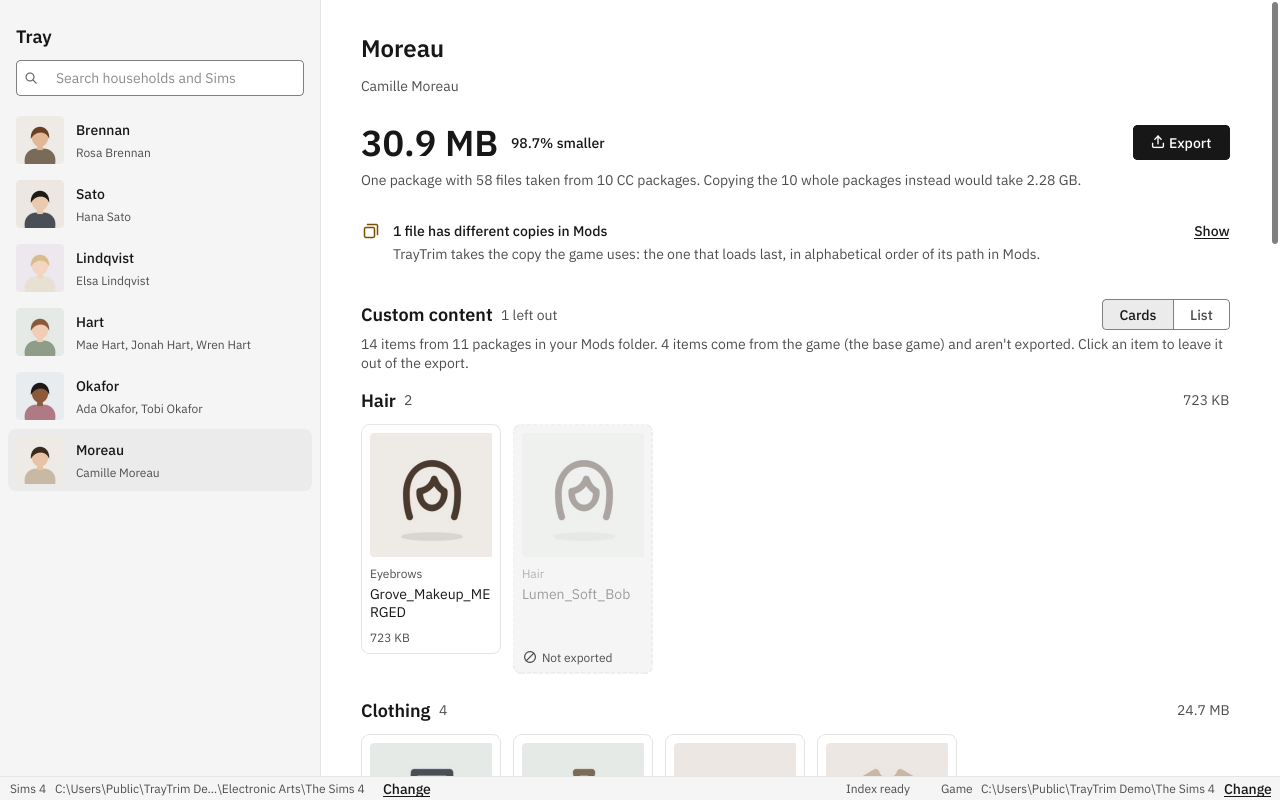
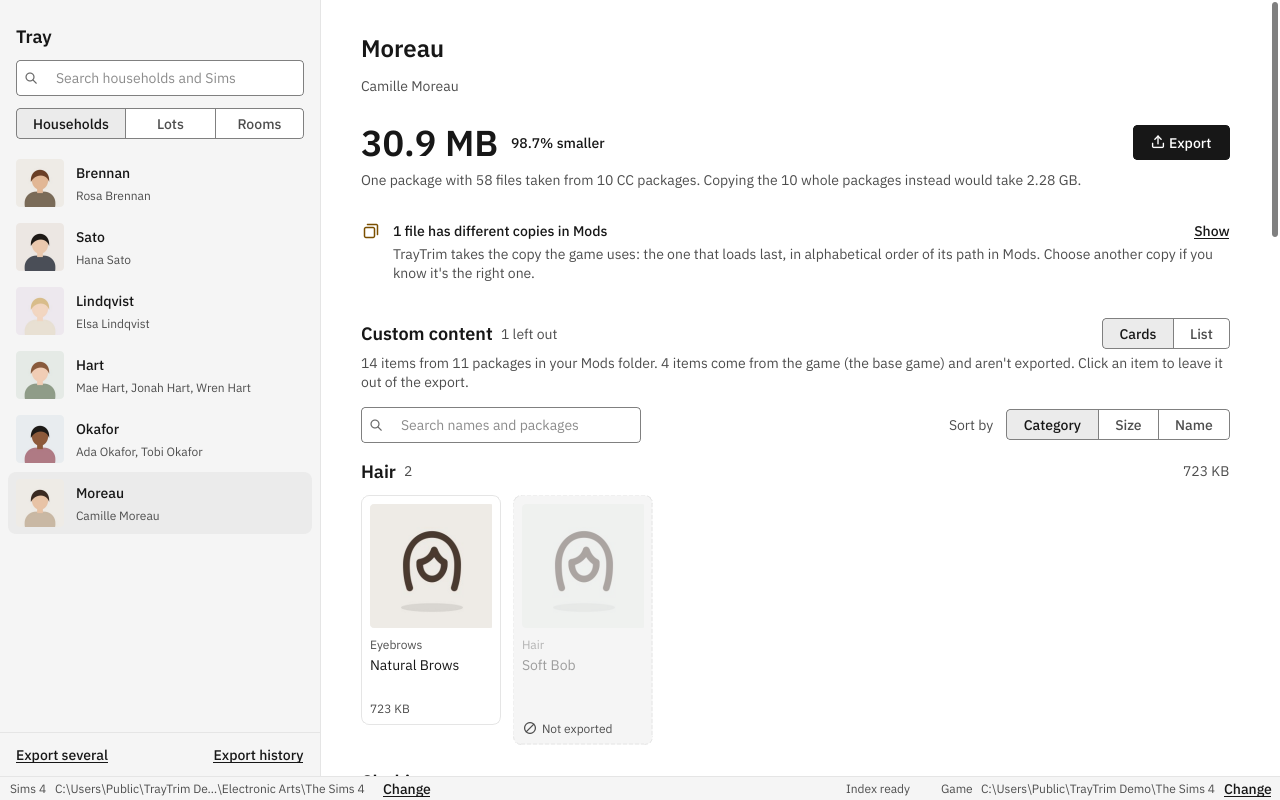
TrayTrim 0.2.0
README covers lots and rooms, CC names, search and sort, choosing
copies, joint export, history, and the macOS and Linux downloads; new
screenshots, including an invented lot.

diff --git a/README.md b/README.md
@@ -35,7 +35,10 @@ packages they live in, writes them into one package next to the tray files, and 
 - **Follows every file the CC needs**: meshes, textures in any format, thumbnails, slider shapes,
   across packages, so recolors that need a separate mesh still work.
 - **Takes the copy the game uses** when the same file is in your Mods more than once with
-  different content, and tells you which one and why.
+  different content, tells you which one and why, and lets you pick another.
+- **Shows what everything is**: CC by its own name ("Driftwood Rattan Chair", "Soft Bob"), with
+  its thumbnail, searchable and sortable by category, size or name. Lots, rooms and households
+  show their own tray picture.
 - **Lets you leave things out** with a click, and export only some Sims of a household. The size
   updates as you go.
 - **Never copies game content.** Items from the base game and packs stay out; the report lists the
@@ -46,8 +49,9 @@ packages they live in, writes them into one package next to the tray files, and 
   replacements, are listed in the export's README.
 - **Prepares an in-game test**: a folder with only the export and steps to try it in your game
   with nothing else installed, then put your Mods back.
-- **Exports several at once**, one verified zip each, and keeps a history of your exports. Any
-  earlier zip can be checked again later, without the Mods folder it came from.
+- **Exports several at once**, one verified zip each, or together in one zip that shares one
+  package, like a lot with the household that lives there. A history keeps every export, and any
+  earlier zip can be checked again later without the Mods folder it came from.
 
 <table>
   <tr>
@@ -59,12 +63,16 @@ packages they live in, writes them into one package next to the tray files, and 
     <td><img src="docs/screenshots/verified-light.png" alt="A verified export"></td>
   </tr>
   <tr>
+    <td><img src="docs/screenshots/lot-light.png" alt="A lot with its picture, notices and a copy to choose"></td>
+    <td><img src="docs/screenshots/lot-search.png" alt="Searching a lot's CC, largest first"></td>
+  </tr>
+  <tr>
     <td><img src="docs/screenshots/household-dark.png" alt="Dark theme"></td>
     <td><img src="docs/screenshots/list-view.png" alt="CC as a list"></td>
   </tr>
 </table>
 
-<sub>Screenshots use an invented household and invented CC.</sub>
+<sub>Screenshots use invented households, an invented lot and invented CC.</sub>
 
 ## Download
 
@@ -72,8 +80,16 @@ packages they live in, writes them into one package next to the tray files, and 
 [Releases](https://github.com/stixez/TrayTrim/releases) page. It installs for your user only, no
 administrator rights needed, and uninstalls from Windows Settings. A portable zip is there too.
 
-**macOS and Linux (Steam/Proton):** run it from source for now (below). The code is cross-platform
-and its tests run on Windows, macOS and Linux; packaged builds will follow.
+**macOS (Apple silicon):** get `TrayTrim-<version>-macos-arm64.zip`, unzip it and move TrayTrim
+to Applications. The app isn't signed by Apple yet, so the first time, right-click it and choose
+Open. On an Intel Mac, run it from source (below).
+
+**Linux (Steam/Proton):** get `TrayTrim-<version>-linux-x86_64.tar.gz`, unpack it and run
+`TrayTrim/TrayTrim`. It finds the Sims 4 folders inside Proton's prefix; if it doesn't, choose
+them in the status bar.
+
+The Windows build is tested on a real Sims 4 install; the macOS and Linux builds are built and
+started on each release by CI, but haven't been tried with the game yet. Reports are welcome.
 
 ## Safety
 
@@ -117,7 +133,7 @@ Conflict notices say so.
 - Changes that affect every Sim and aren't referenced from the tray files can't be found: default
   replacements of skin, eyes or bodies that the Sims don't wear directly, and script mods. The
   recipient needs those separately.
-- Sims living on a lot aren't part of a lot export; export their household on its own.
+- Sims living on a lot aren't part of a lot export; export the lot and their household together.
 - CC names (string tables) aren't exported; CAS shows the items without them.
 - Many CC creators don't allow re-uploading their work. Exports are meant for your own backups and
   transfers, or for CC you have the rights to share.
